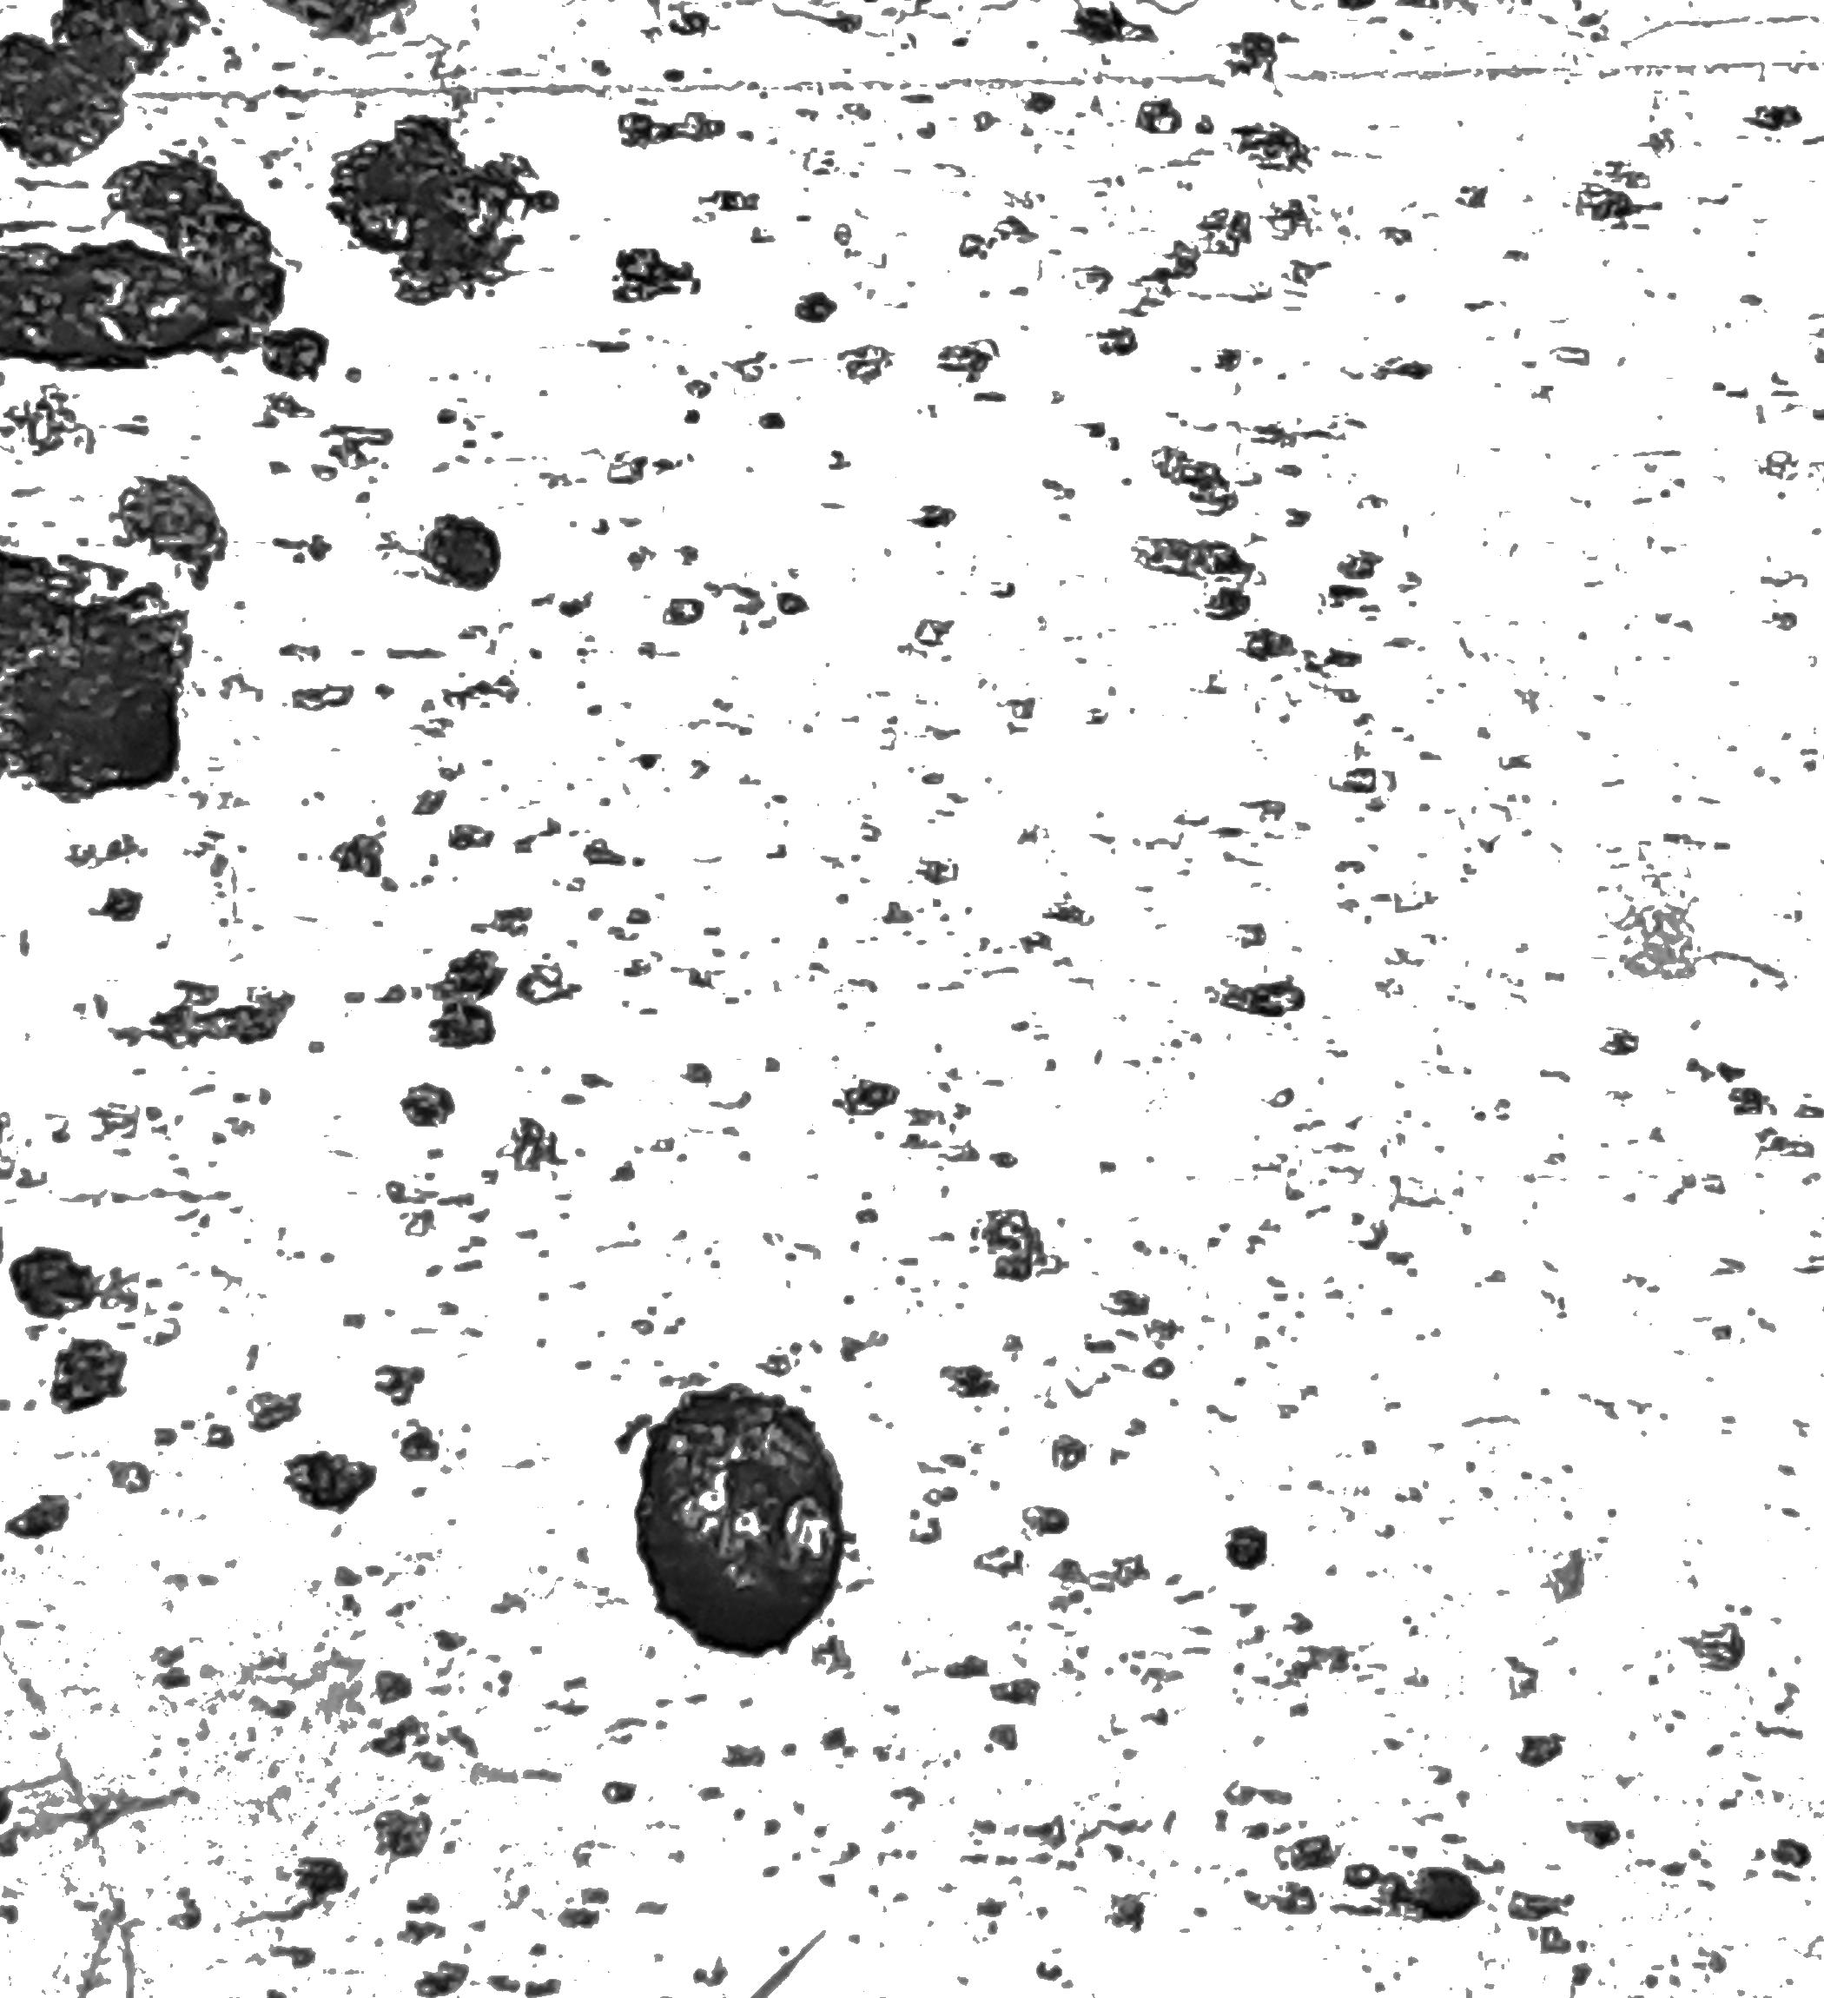
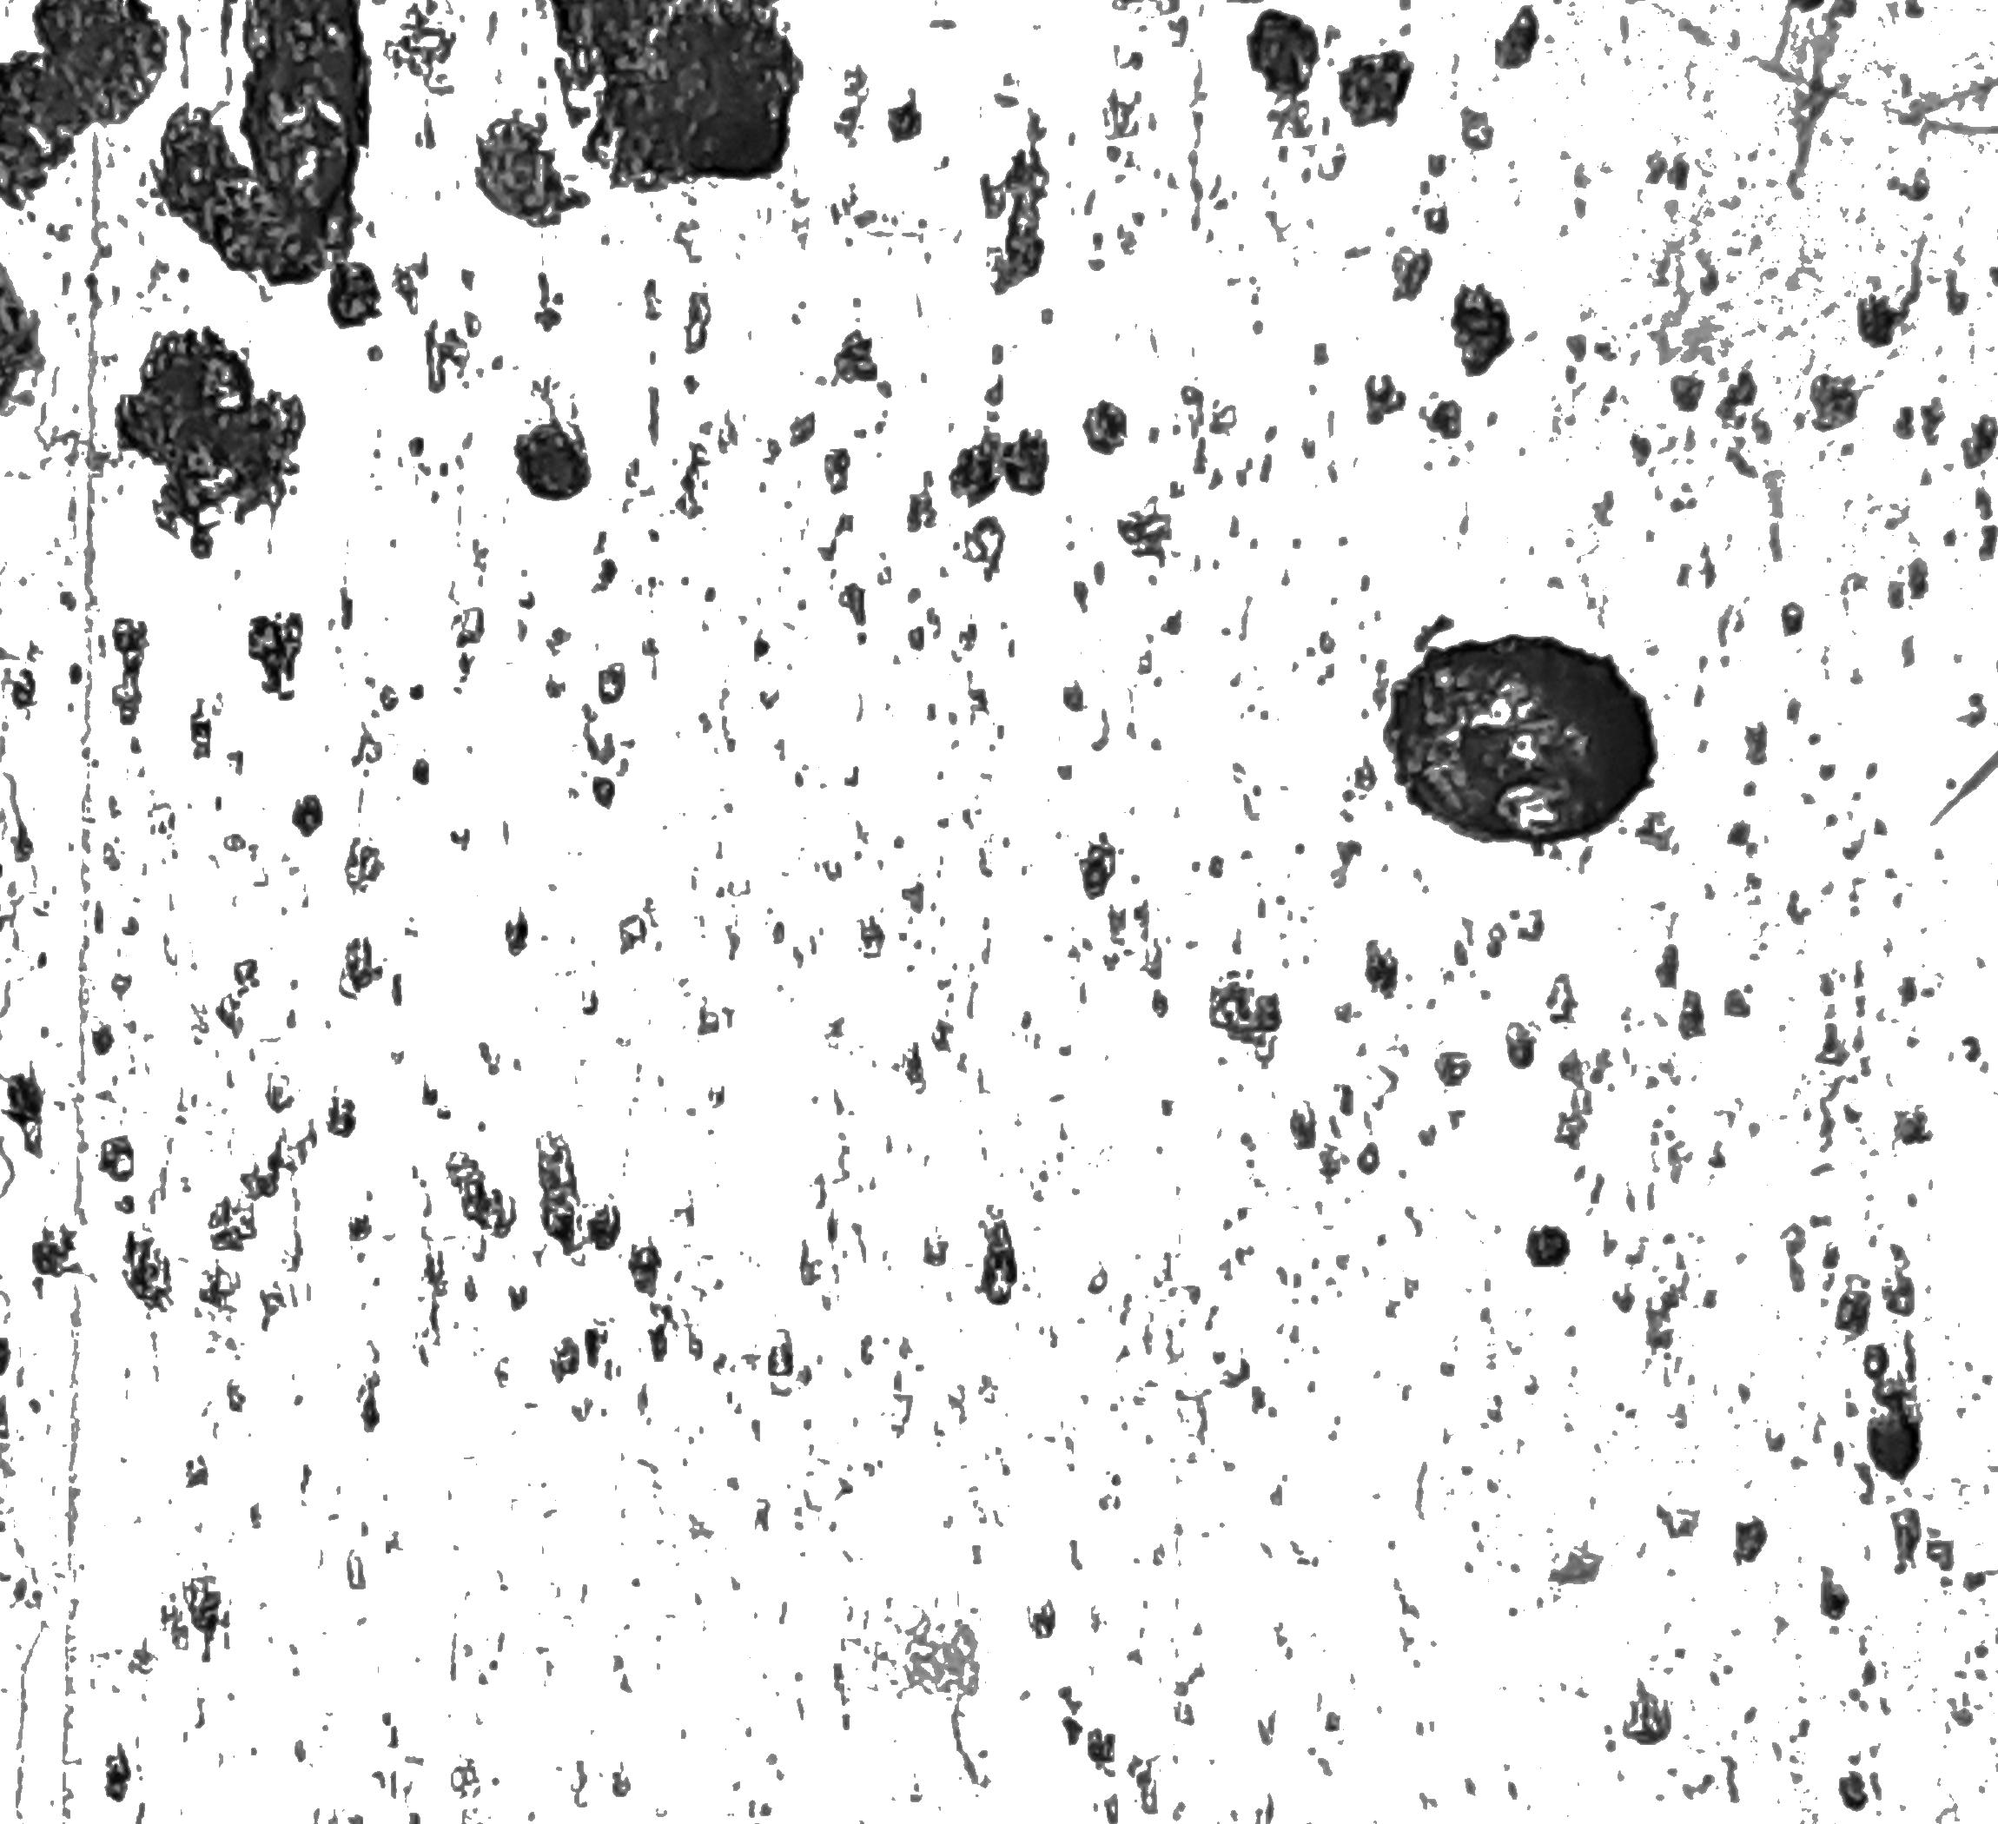
j

diff --git a/nonTranposed.py b/nonTranposed.py
@@ -67,9 +67,9 @@ for filename in os.listdir(files):
     np.savetxt(filenameSave, saveFile, delimiter=' ', newline = "\n", fmt = "%s")
 
 
-    # clip[blurredClip > threshold] = 1
-    # clip = np.uint8(clip*255)
-    # skimage.io.imsave(imageSave, clip)
+    clip[blurredClip > threshold] = 1
+    clip = np.uint8(clip*255)
+    skimage.io.imsave(imageSave, clip)
     
 
     
